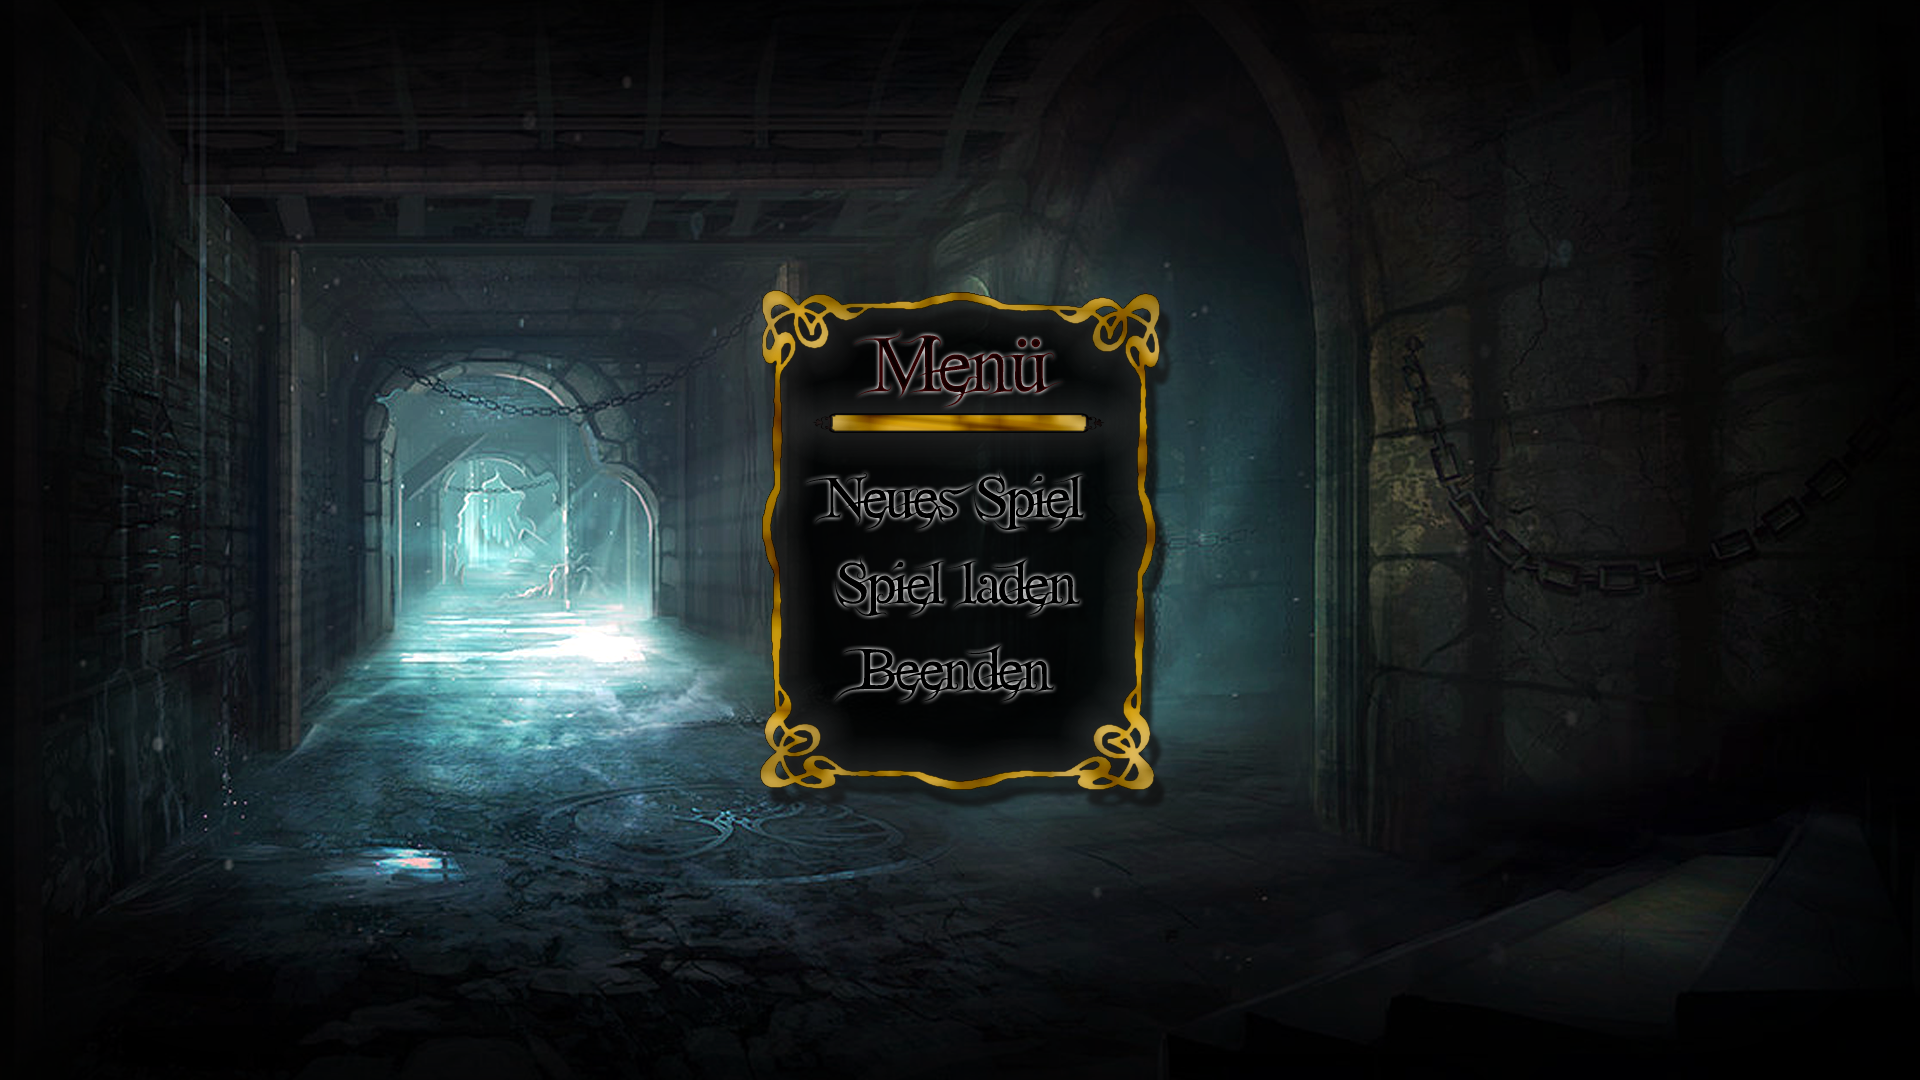
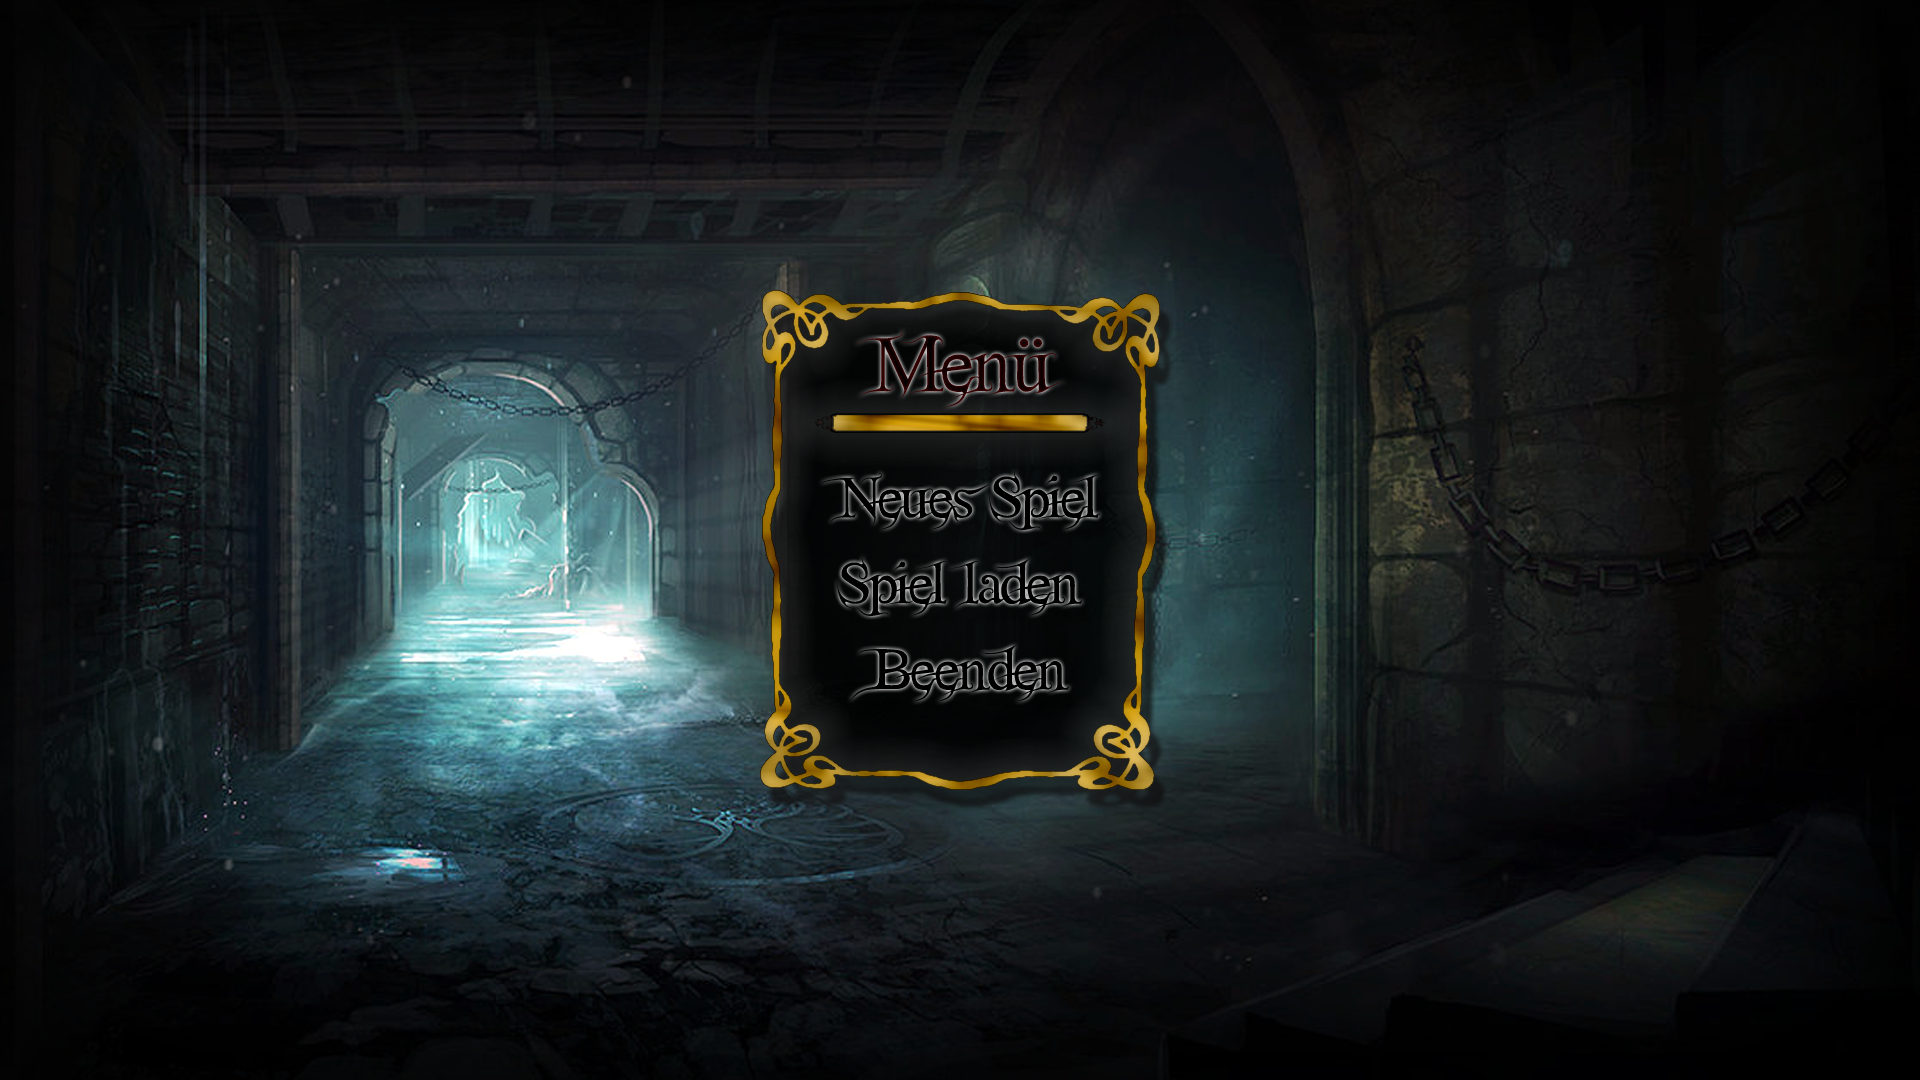
Missionsauswahl #designUpdate

Changed region(s): [[0.4375, 0.5194, 0.5625, 0.6722], [0.4062, 0.4278, 0.5938, 0.4889], [0.4375, 0.3056, 0.5625, 0.3667]]

diff --git a/src/View/MenuPanel.java b/src/View/MenuPanel.java
@@ -17,7 +17,7 @@ public class MenuPanel extends JPanel
     {
         this.setLayout(null);
         this.setBounds(0, 0, 1920, 1080);
-        this.add(new MenuSelectionItem(780, 457, paramMenuController, "neuesSpiel"));
+        this.add(new MenuSelectionItem(792, 457, paramMenuController, "neuesSpiel"));
         this.add(new MenuSelectionItem(788, 543, paramMenuController, "spielLaden"));
         this.add(new MenuSelectionItem(788, 630, paramMenuController, "beenden"));
 

diff --git a/src/View/SelectionItem/MenuSelectionItem.java b/src/View/SelectionItem/MenuSelectionItem.java
@@ -18,7 +18,7 @@ public class MenuSelectionItem extends JPanel
         this.setLayout(null);
         this.setName(paramName);
         this.setOpaque(false);
-        this.setBounds(paramXPos, paramYPos, 346, 88);
+        this.setBounds(paramXPos, paramYPos, 345, 88);
         this.addMouseListener(paramMenuController);
         try
         {
